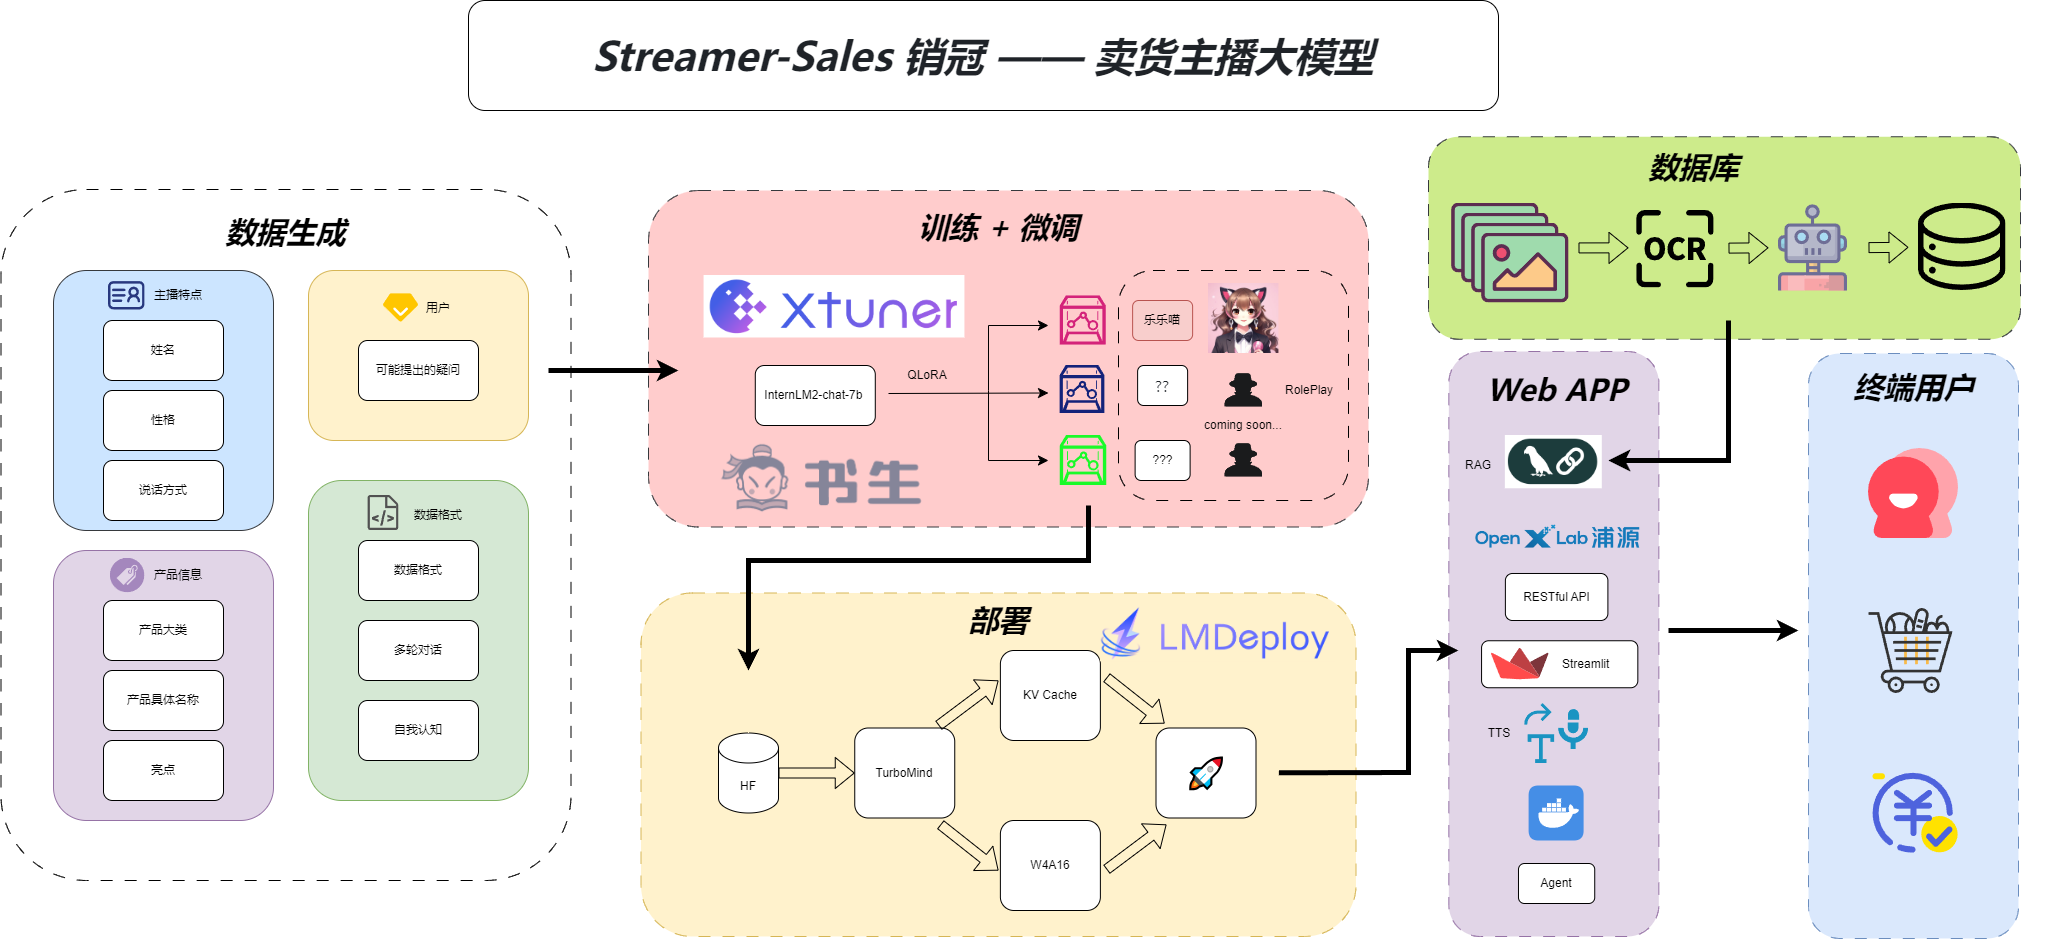
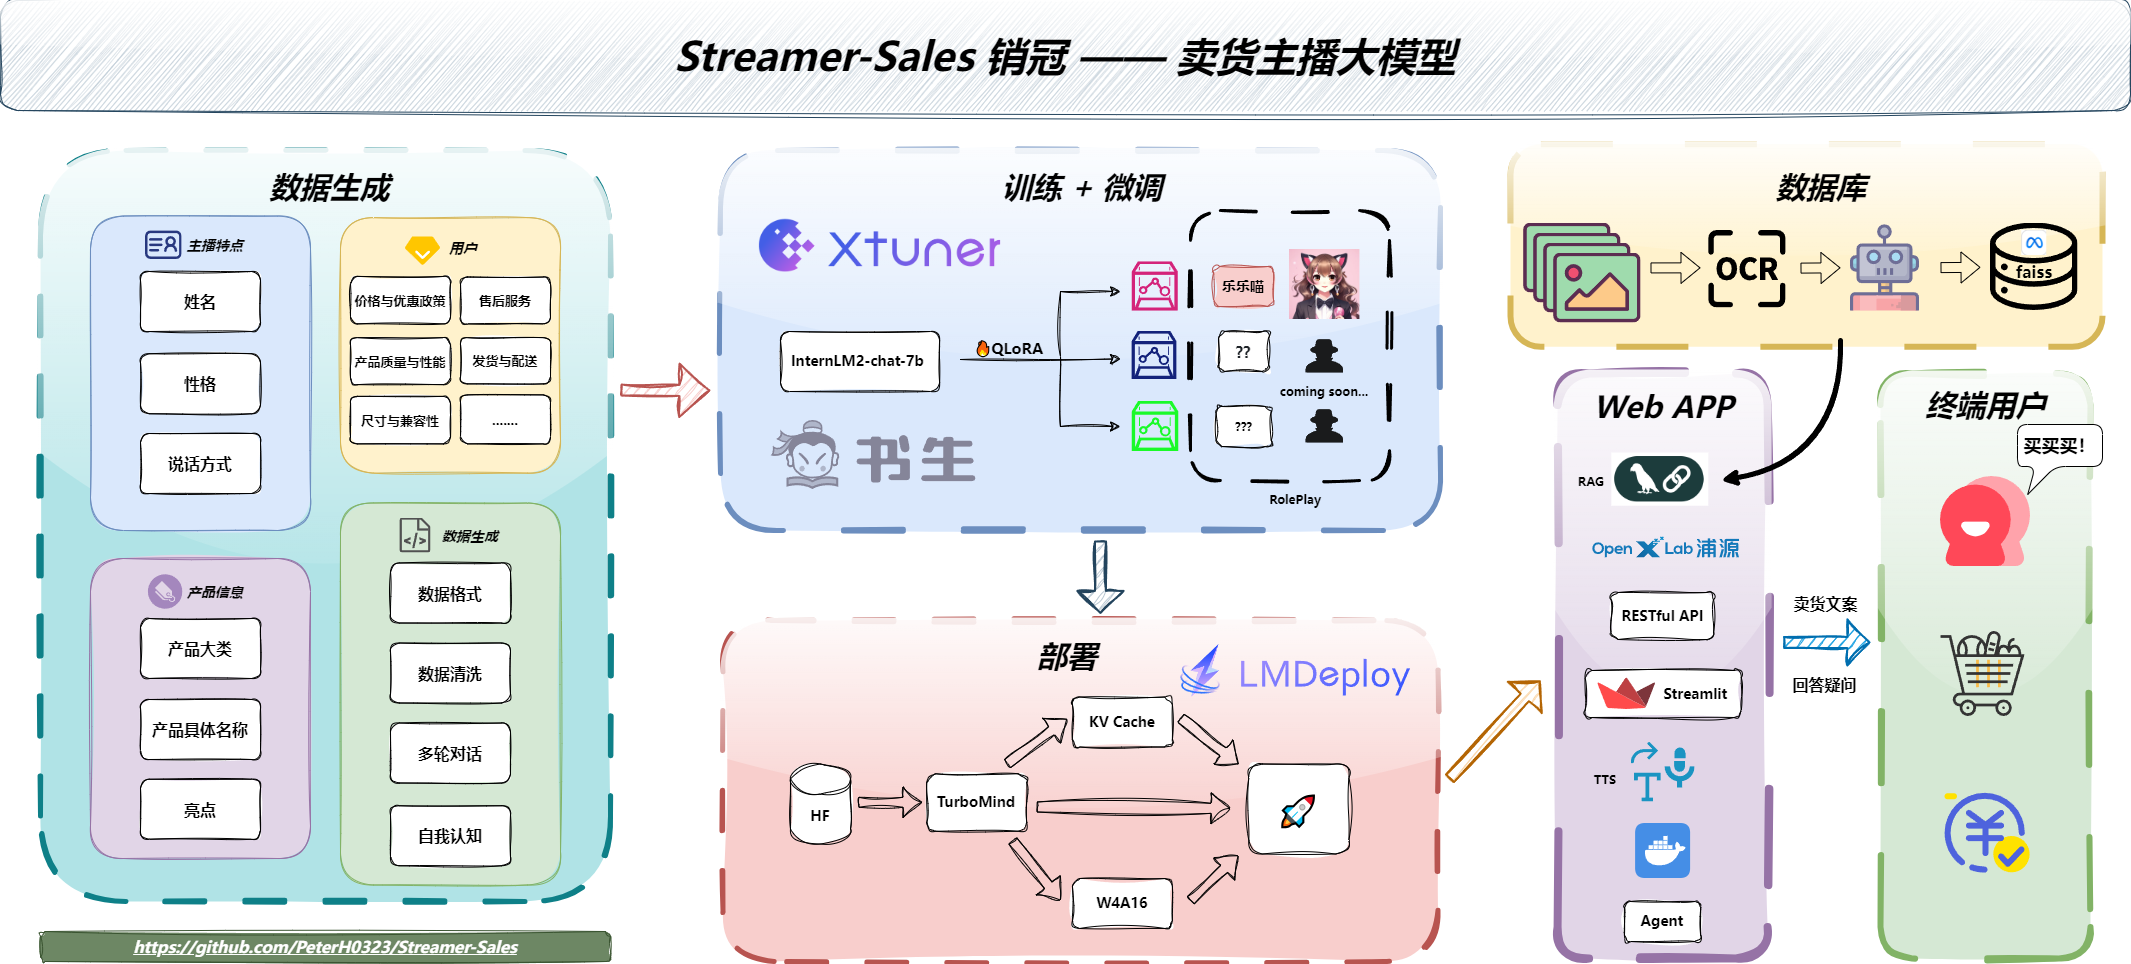
完善架构图，完善文档

diff --git a/README.md b/README.md
@@ -31,7 +31,7 @@ license: Apache License 2.0
   </p>
 </p>
 
-## 简介
+## 📢 简介
 
 **Streamer-Sales 销冠 —— 卖货主播大模型** 是一个能够根据给定的商品特点对商品进行解说并激发用户的购买意愿的卖货主播模型。
 
@@ -39,7 +39,7 @@ license: Apache License 2.0
 
 **开源不易，如果本项目帮到大家，可以右上角帮我点个 star~ ⭐⭐ , 您的 star ⭐是我们最大的鼓励，谢谢各位！**  
 
-## NEWS
+## 🎉 NEWS
 
 - [2024.05.25] 发布 **TTS 2.0** 版本，**生成的语音在语气和情感方面有大大增强！**
 - [2024.05.23] 发布 TTS 1.0 版本，并支持开放用户自由选择该项功能，但有机器人的感觉
@@ -51,7 +51,7 @@ license: Apache License 2.0
 - [2024.04.16] 发布【乐乐喵】模型，完成初版页面
 - [2024.04.06] 生成数据初版完成，训练初版模型
 
-## 介绍
+## 📜 介绍
 
 **销冠 —— 卖货主播大模型** 是一个能够根据给定的商品特点对商品进行解说并激发用户的购买意愿的卖货主播模型，以其独特的智能魅力，将彻底改变您的购物体验。该模型能深度理解商品特点，以生动、精准的语言为商品量身打造解说词，让每一件商品都焕发出诱人的光彩。无论是细节之处，还是整体效果，都能通过其细腻、独到的解说，激发用户的购买欲望。
 
@@ -63,11 +63,11 @@ license: Apache License 2.0
 
 **开源不易，如果本项目帮到大家，可以右上角帮我点个 star~ ⭐⭐ , 您的 star ⭐是我们最大的鼓励，谢谢各位！**  
 
-## 架构图
+## 🛠 架构图
 
 ![架构图](./doc/architecture.png)
 
-## 演示
+## 🖼 演示
 
 **Demo 地址**：https://openxlab.org.cn/apps/detail/HinGwenWong/Streamer-Sales
 
@@ -78,7 +78,7 @@ license: Apache License 2.0
 </p>
 
 
-## Model Zoo
+## ⚙ Model Zoo
 
 | 模型                            | 基座             | 数据量           | ModelScope(HF)                                                                          | OpenXLab(HF)                                                                                                                                                            |
 | ------------------------------- | ---------------- | ---------------- | --------------------------------------------------------------------------------------- | ----------------------------------------------------------------------------------------------------------------------------------------------------------------------- |
@@ -86,7 +86,7 @@ license: Apache License 2.0
 | streamer-sales-lelemiao-7b-4bit | interlm2-chat-7b | about 40w Toeken | [ModelScope](https://modelscope.cn/models/HinGwenWoong/streamer-sales-lelemiao-7b-4bit) | [![Open in OpenXLab](https://cdn-static.openxlab.org.cn/header/openxlab_models.svg)](https://openxlab.org.cn/models/detail/HinGwenWong/streamer-sales-lelemiao-7b-4bit) |
 
 
-## 开发计划
+## 🧱 开发计划
 
 - [x] 生成多个产品数据集
 - [x] 根据产品生成话术，每个都是5个往来的对话
@@ -106,7 +106,7 @@ license: Apache License 2.0
 - [ ] 多模态
 - [ ] 数字人
 
-## 快速体验
+## 🎨 快速体验
 
 **Demo 地址**：https://openxlab.org.cn/apps/detail/HinGwenWong/Streamer-Sales
 
@@ -121,7 +121,7 @@ pip install -r requirements.txt
 streamlit run app.py --server.address=0.0.0.0 --server.port 7860
 ```
 
-## 指南
+## 📖 指南
 
 本指南会从以下几点进行说明：
 
@@ -545,7 +545,7 @@ streamlit run app.py --server.address=0.0.0.0 --server.port 7860
 **Enjoy ！**
 
 
-## 后记
+## 📧 后记
 
 本项目属于个人的一个学习项目，还有很多不足的地方，例如本模型在数据集方面的还没做很精细的调优。
 
@@ -561,11 +561,11 @@ streamlit run app.py --server.address=0.0.0.0 --server.port 7860
 
 感谢上海人工智能实验室推出的书生·浦语大模型实战营，为我们的项目提供宝贵的技术指导和强大的算力支持。
 
-## 开源许可证
+## 🎫 开源许可证
 
 该项目采用 [Apache License 2.0 开源许可证](https://github.com/PeterH0323/Streamer-Sales/LICENSE) 同时，请遵守所使用的模型与数据集的许可证。
 
-## 引用
+## 🔗 引用
 
 如果本项目对您的工作有所帮助，请使用以下格式引用：
 
@@ -578,7 +578,7 @@ streamlit run app.py --server.address=0.0.0.0 --server.port 7860
 }
 ```
 
-## Star History
+## ✨Star History
 
 [![Star History Chart](https://api.star-history.com/svg?repos=PeterH0323/Streamer-Sales&type=Date)](https://star-history.com/#PeterH0323/Streamer-Sales&Date)
 
